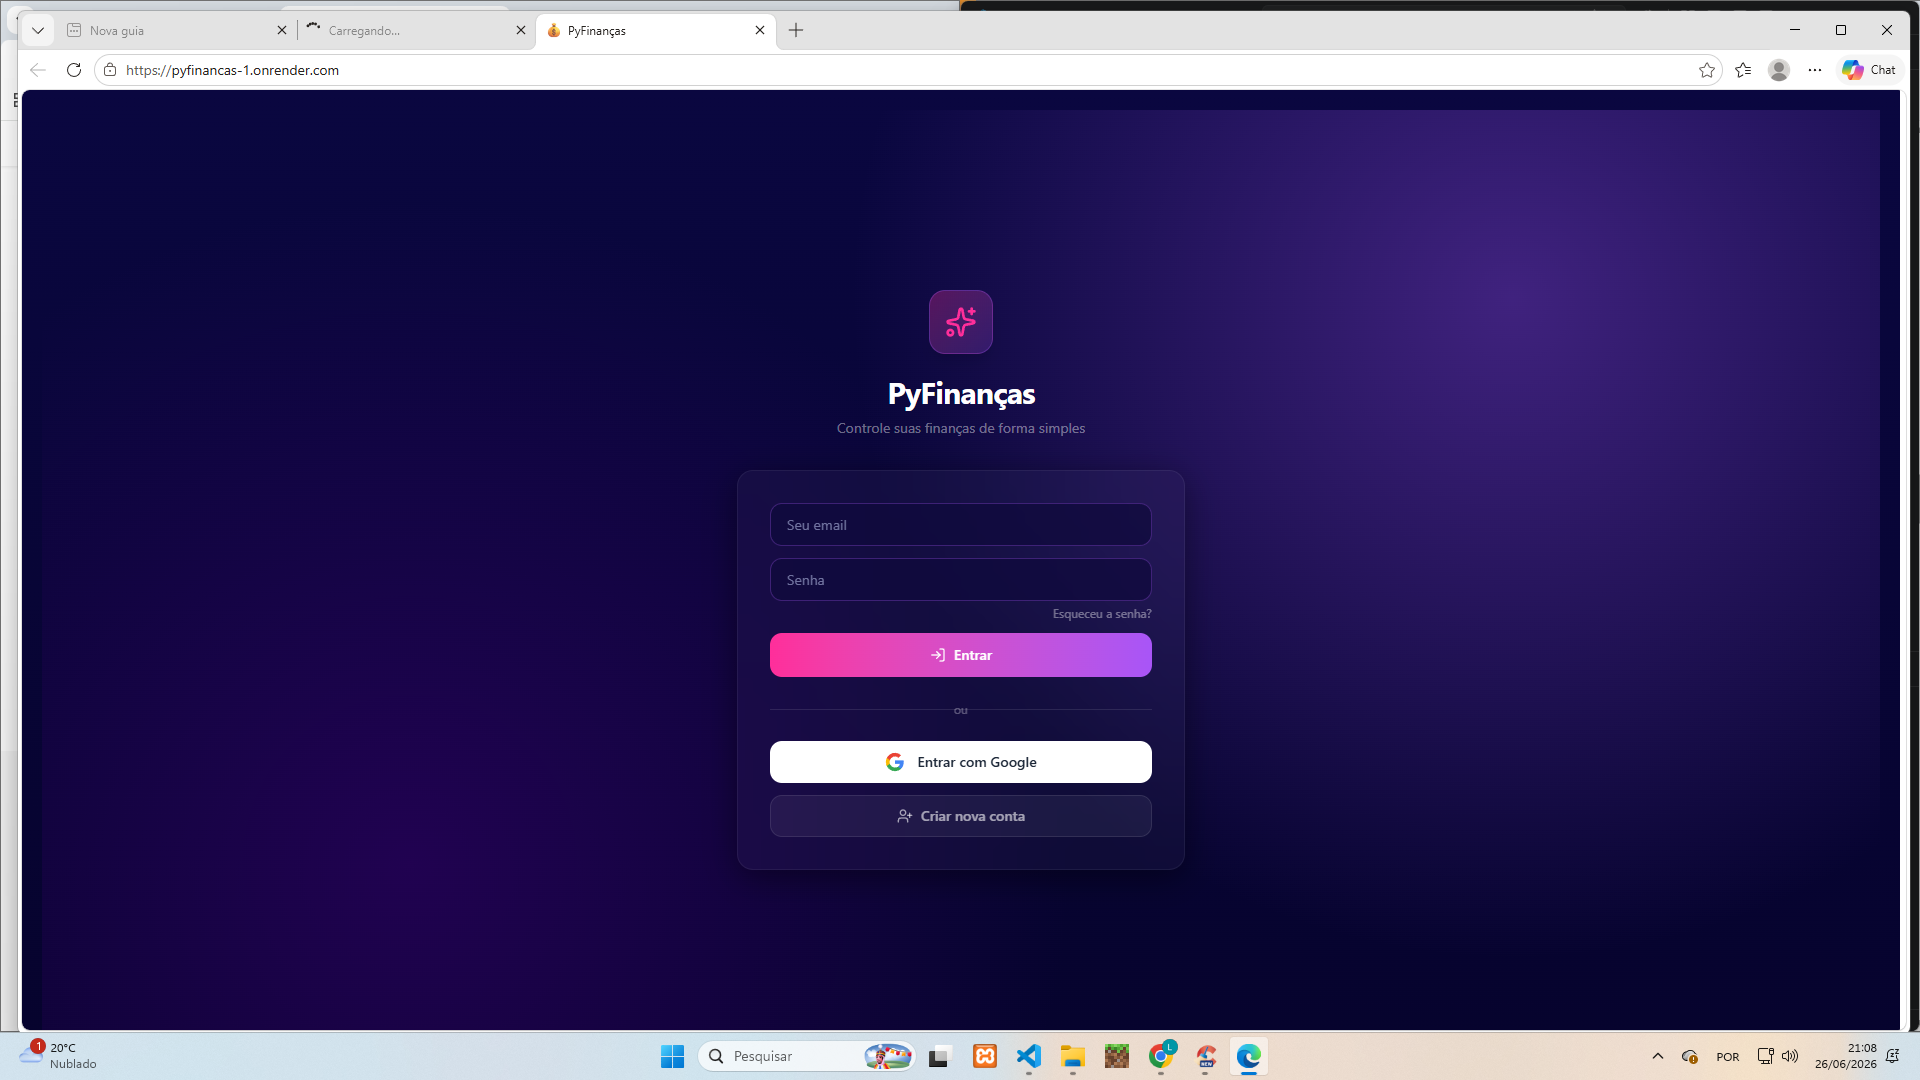
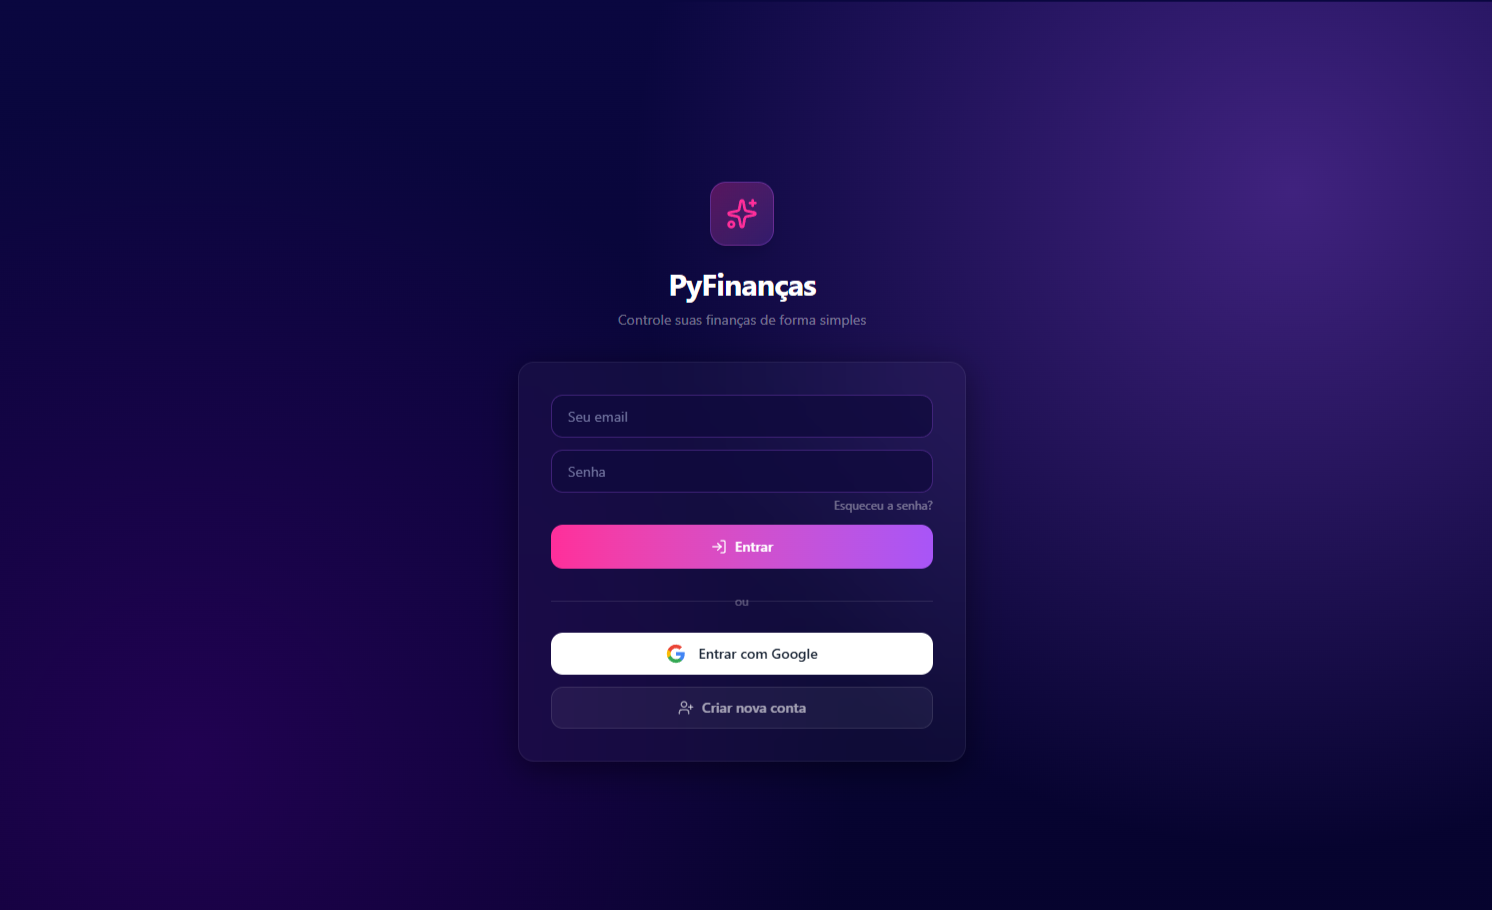
Adiciona filtro por categoria (Front/Back/Full Stack) com animacao + redimensiona foto Hamburgueria

diff --git a/index.html b/index.html
@@ -416,12 +416,20 @@
     <!--seção projetos -->
     <!-- Seção Projetos -->
         <section id="projetos">
-            <h2><i class="fa-solid fa-trowel-bricks"></i> Projetos</h2>            
+            <h2><i class="fa-solid fa-trowel-bricks"></i> Projetos</h2>
+
+            <div class="filtro-categoria">
+                <button class="filtro-btn ativo" data-filter="all">Todos</button>
+                <button class="filtro-btn" data-filter="frontend">Front-end</button>
+                <button class="filtro-btn" data-filter="backend">Back-end</button>
+                <button class="filtro-btn" data-filter="fullstack">Full Stack</button>
+            </div>
+
             <div id="projeto-wrapper">
 
     <!-- Projeto 1: Sistema CRM -->
 
-<div class="projeto-flip">
+<div class="projeto-flip" data-category="fullstack">
     <div class="projeto-inner">
         <div class="projeto-frente">
             <img src="imagem/CRM-grande.png" alt="Sistema CRM" class="foto">
@@ -480,7 +488,7 @@
 </div>
 
     <!-- Projeto 1: Automação Python -->
-<div class="projeto-flip">
+<div class="projeto-flip" data-category="backend">
     <div class="projeto-inner">
         <div class="projeto-frente">
             <img src="imagem/projeto-automação-playwright.png" alt="Automação Python" class="foto">
@@ -527,7 +535,7 @@
     <!--seção projetos - projeto 02-->
 
 
-            <div class="projeto-flip">
+            <div class="projeto-flip" data-category="fullstack">
                 <div class="projeto-inner">
                     
                     <div class="projeto-frente">
@@ -572,7 +580,7 @@
             
 
         <!--Projeto 3-->
-            <div class="projeto-flip">
+            <div class="projeto-flip" data-category="frontend">
                 <div class="projeto-inner">
                     <div class="projeto-frente">
                         <img src="imagem/projeto minecraft.png" alt="Projeto 3" class="foto">
@@ -605,7 +613,7 @@
                 </div>
             </div>
         <!--Projeto 4-->
-                   <div class="projeto-flip">
+                   <div class="projeto-flip" data-category="frontend">
                 <div class="projeto-inner">
                     <div class="projeto-frente">
                         <img src="imagem/encurtar-link.png" alt="Projeto 4" class="foto">
@@ -636,7 +644,7 @@
 
                 <!-- Projeto 5 -->
 
-            <div class="projeto-flip">
+            <div class="projeto-flip" data-category="fullstack">
     <div class="projeto-inner">
         <div class="projeto-frente">
             <img src="imagem/conversor-de-arquivos-atualizado.png" alt="TopConvert Pro" class="foto">
@@ -678,7 +686,7 @@
 </div>
 
          <!--Projeto 6-->
-<div class="projeto-flip">
+<div class="projeto-flip" data-category="fullstack">
     <div class="projeto-inner">
         <div class="projeto-frente">
             <img src="imagem/HamburgueriaZ-foto-pequena.png" alt="Hamburgueria Z" class="foto">
@@ -728,7 +736,7 @@
 
 
         <!--Projeto 7-->
-<div class="projeto-flip">
+<div class="projeto-flip" data-category="backend">
     <div class="projeto-inner">
         <div class="projeto-frente">
             <img src="imagem/CursoPHP.png" alt="Painel de Estudos PHP" class="foto">
@@ -791,7 +799,7 @@
 
 
     <!-- Projeto 8: Lista-Tarefas -->
-<div class="projeto-flip">
+<div class="projeto-flip" data-category="fullstack">
     <div class="projeto-inner">
         <div class="projeto-frente">
             <img src="imagem/lista-tarefas.png" alt="Lista de Tarefas" class="foto">
@@ -840,7 +848,7 @@
 </div>
 
     <!-- Projeto 9: PyFinanças -->
-<div class="projeto-flip">
+<div class="projeto-flip" data-category="fullstack">
     <div class="projeto-inner">
         <div class="projeto-frente">
             <img src="imagem/pyfinancas.png" alt="PyFinanças" class="foto">

diff --git a/script.js b/script.js
@@ -93,16 +93,51 @@ if (hamburger && navMenu) {
 // Animação de entrada dos projetos
 const projetos = document.querySelectorAll(".projeto-flip");
 
-projetos.forEach((projeto, index) => {
-    projeto.style.opacity = "0";
-    projeto.style.transform = "translateY(30px)";
-    projeto.style.transition = "all 0.6s ease";
-    projeto.style.transitionDelay = `${index * 0.1}s`;
-    
-    setTimeout(() => {
-        projeto.style.opacity = "1";
-        projeto.style.transform = "translateY(0)";
-    }, 100);
+function animarEntradaProjetos(lista) {
+    lista.forEach((projeto, index) => {
+        projeto.style.opacity = "0";
+        projeto.style.transform = "translateY(30px)";
+        projeto.style.transition = "all 0.5s ease";
+        projeto.style.transitionDelay = `${index * 0.08}s`;
+        
+        setTimeout(() => {
+            projeto.style.opacity = "1";
+            projeto.style.transform = "translateY(0)";
+        }, 50);
+    });
+}
+
+animarEntradaProjetos(projetos);
+
+// Filtro por categoria
+const filtroBotoes = document.querySelectorAll(".filtro-btn");
+
+filtroBotoes.forEach(btn => {
+    btn.addEventListener("click", () => {
+        const filter = btn.dataset.filter;
+
+        filtroBotoes.forEach(b => b.classList.remove("ativo"));
+        btn.classList.add("ativo");
+
+        const todosProjetos = document.querySelectorAll(".projeto-flip");
+        let visiveis = [];
+
+        todosProjetos.forEach(projeto => {
+            const categoria = projeto.dataset.category;
+            if (filter === "all" || categoria === filter) {
+                projeto.style.display = "";
+                projeto.style.opacity = "0";
+                projeto.style.transform = "translateY(20px)";
+                visiveis.push(projeto);
+            } else {
+                projeto.style.display = "none";
+                projeto.style.opacity = "0";
+                projeto.style.transform = "translateY(20px)";
+            }
+        });
+
+        animarEntradaProjetos(visiveis);
+    });
 });
 
 // 控制项目图片显示/隐藏

diff --git a/style.css b/style.css
@@ -572,12 +572,47 @@ h2 i {
     pointer-events: none;
 }
 
+/* Filtro de categorias */
+.filtro-categoria {
+    display: flex;
+    justify-content: center;
+    gap: 12px;
+    flex-wrap: wrap;
+    margin: 30px auto 0;
+    max-width: 600px;
+}
+
+.filtro-btn {
+    background: transparent;
+    border: 2px solid var(--accent);
+    color: var(--text-secondary);
+    padding: 8px 22px;
+    border-radius: 30px;
+    font-size: 0.95rem;
+    font-weight: 500;
+    cursor: pointer;
+    transition: all 0.3s ease;
+}
+
+.filtro-btn:hover {
+    background: var(--accent);
+    color: #fff;
+    transform: translateY(-2px);
+    box-shadow: 0 4px 15px rgba(168, 85, 247, 0.3);
+}
+
+.filtro-btn.ativo {
+    background: var(--accent);
+    color: #fff;
+    box-shadow: 0 4px 15px rgba(168, 85, 247, 0.3);
+}
+
 #projeto-wrapper {
     display: flex;
     flex-direction: column;
     max-width: 1200px;
     margin: 0 auto;
-    padding: 80px 0 40px;
+    padding: 40px 0 40px;
     position: relative;
     z-index: 1;
 }
@@ -685,7 +720,7 @@ h2 i {
 details[open] .foto-HamburgueriaZ .foto-expandida {
     width: auto;
     max-width: calc((100% - 15px) / 2);
-    max-height: 560px;
+    max-height: 400px;
     object-fit: contain;
     margin: 0;
 }
